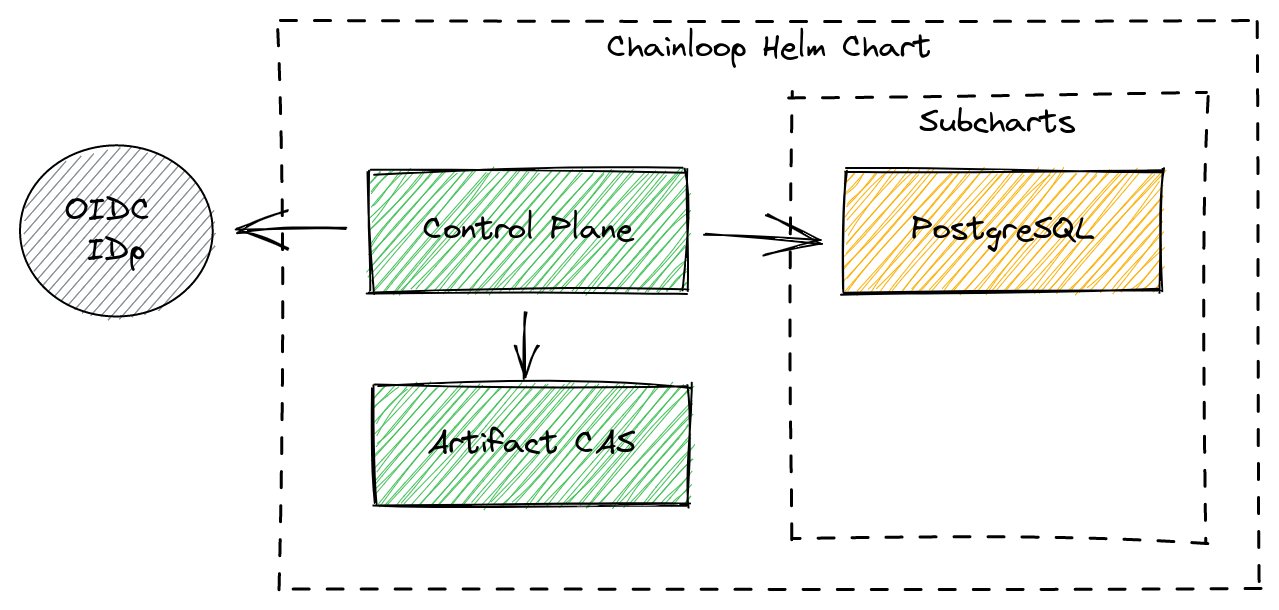
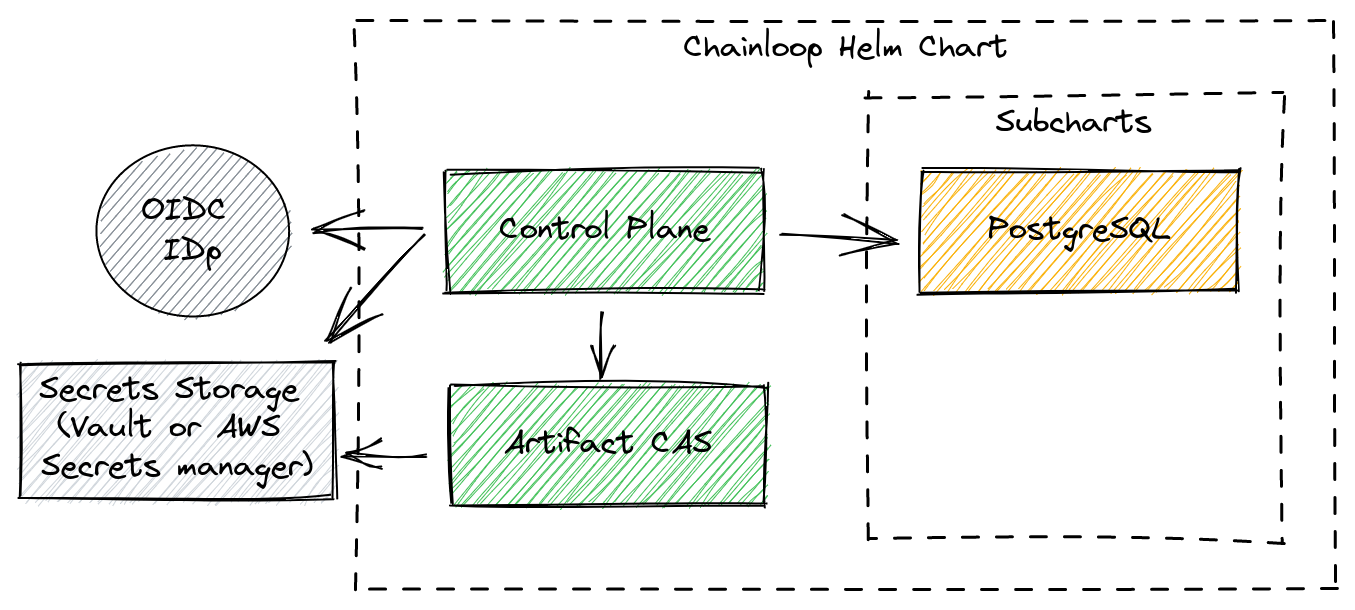
docs: update deployment image (#87)

diff --git a/deployment/chainloop/README.md b/deployment/chainloop/README.md
@@ -10,8 +10,7 @@ This chart bootstraps a [Chainloop](https://github.com/chainloop-dev/chainloop) 
 
 - Kubernetes 1.19+
 - Helm 3.2.0+
-- PV provisioner support in the underlying infrastructure
-- ReadWriteMany volumes for deployment scaling
+- PV provisioner support in the underlying infrastructure (If built-in PostgreSQL is enabled)
 
 ## TL;DR
 
@@ -24,6 +23,8 @@ helm install [RELEASE_NAME] oci://ghcr.io/chainloop-dev/charts/chainloop \
     --set controlplane.auth.oidc.clientID=[clientID] \
     --set controlplane.auth.oidc.clientSecret=[clientSecret]
 ```
+
+> **CAUTION**: Do not use this mode in production, for that, use the [standard mode](#standard-default) instead.
 
 ## Installing the Chart
 
@@ -47,16 +48,11 @@ During installation, you'll need to provide
 - Connection settings for a secrets storage backend, either [Hashicorp Vault](https://www.vaultproject.io/) or [AWS Secret Manager](https://aws.amazon.com/secrets-manager)
 - ECDSA (ES512) key-pair used for Controlplane <-> CAS Authentication
 
-You can generate the ECDSA key-pair by running
-
-```console
-# Private Key (private.ec.key)
-openssl ecparam -name secp521r1 -genkey -noout -out private.ec.key
-# Public Key (public.pem)
-openssl ec -in private.ec.key -pubout -out public.pem
-```
+Instructions on how to create the ECDSA keypair can be found [here](#generate-a-ecdsa-key-pair).
 
 #### Installation Examples
+
+> **NOTE**: **We do not recommend passing nor storing sensitive data in plain text**. For production, please consider having your overrides encrypted with tools such as [Sops](https://github.com/mozilla/sops), [Helm Secrets](https://github.com/jkroepke/helm-secrets) or [Sealed Secrets](https://github.com/bitnami-labs/sealed-secrets).
 
 Deploy Chainloop configured to talk to the bundled PostgreSQL an external OIDC IDp and a Vault instance.
 
@@ -121,6 +117,8 @@ The Helm Chart in this mode includes
 - A PostgreSQL dependency enabled by default
 - **A pre-configured Hashicorp Vault instance running in development mode (unsealed, in-memory, insecure)**
 
+> **CAUTION**: Do not use this mode in production, for that, use the [standard mode](#standard-default) instead.
+
 During installation, you'll need to provide
 
 - Open ID Connect Identity Provider (IDp) settings i.e [Auth0 settings](https://auth0.com/docs/get-started/applications/application-settings#basic-information)
@@ -138,7 +136,163 @@ helm install [RELEASE_NAME] oci://ghcr.io/chainloop-dev/charts/chainloop \
     --set controlplane.auth.oidc.clientID=[clientID] \
     --set controlplane.auth.oidc.clientSecret=[clientSecret]
 ```
+## How to guides
 
+### Generate a ECDSA key-pair
+
+An ECDSA key-pair is required to perform authentication between the control-plane and the Artifact CAS
+
+You can generate both the private and public keys by running
+
+```bash
+# Private Key (private.ec.key)
+openssl ecparam -name secp521r1 -genkey -noout -out private.ec.key
+# Public Key (public.pem)
+openssl ec -in private.ec.key -pubout -out public.pem
+```
+
+Then, you can either provide it in a custom `values.yaml` file override
+
+```yaml
+casJWTPrivateKey: |-
+    -----BEGIN EC PRIVATE KEY-----
+    REDACTED
+    -----END EC PRIVATE KEY-----
+casJWTPublicKey: |
+    -----BEGIN PUBLIC KEY-----
+    REDACTED
+    -----END PUBLIC KEY-----
+```
+
+or as shown before, provide them as imperative inputs during Helm Install/Upgrade `--set casJWTPrivateKey="$(cat private.ec.key)"--set casJWTPublicKey="$(cat public.pem)"`
+
+### Enable a custom domain with TLS
+
+Chainloop uses three endpoints so we'll need to enable the ingress resource for each one of them.
+
+See below an example of a `values.yaml` override
+
+```yaml
+controlplane:
+  ingress:
+    enabled: true
+    hostname: cp.chainloop.dev
+
+  ingressAPI:
+    enabled: true
+    hostname: api.cp.chainloop.dev
+
+cas:
+    ingressAPI:
+    enabled: true
+    hostname: api.cas.chainloop.dev
+```
+
+A complete setup that uses
+
+- NGINX as ingress Controller https://kubernetes.github.io/ingress-nginx/
+- [cert-manager](https://cert-manager.io/) as TLS provider
+
+would look like
+
+```yaml
+controlplane:
+  ingress:
+    enabled: true
+    tls: true
+    ingressClassName: nginx
+    hostname: cp.chainloop.dev
+    annotations:
+      # This depends on your configured issuer 
+      cert-manager.io/cluster-issuer: "letsencrypt-prod"
+
+  ingressAPI:
+    enabled: true
+    tls: true
+    ingressClassName: nginx
+    hostname: api.cp.chainloop.dev
+    annotations:
+      nginx.ingress.kubernetes.io/backend-protocol: "GRPC"
+      cert-manager.io/cluster-issuer: "letsencrypt-prod"
+          
+cas:
+  ingressAPI:
+    enabled: true
+    tls: true
+    ingressClassName: nginx
+    hostname: api.cas.chainloop.dev
+    annotations:
+      nginx.ingress.kubernetes.io/backend-protocol: "GRPC"
+      cert-manager.io/cluster-issuer: "letsencrypt-prod"
+      # limit the size of the files that go through the proxy
+      # 0 means to not check the size of the request so we do not get 413 error.
+      # For now we are going to set a limit on 100MB files
+      # Even though we send data in chunks of 1MB, this size refers to all the data sent in the streaming connection
+      nginx.ingress.kubernetes.io/proxy-body-size: "100m"
+```
+
+### Connect to an external PostgreSQL database
+
+```yaml
+# Disable built-in DB
+postgresql:
+  enabled: false
+
+# Provide with external connection
+controlplane:
+    externalDatabase:
+        host: 1.2.3.4
+        port: 5432
+        user: chainloop
+        password: [REDACTED]
+        database: chainloop-controlplane-prod
+```
+
+Alternatively, if you are using [Google Cloud SQL](https://cloud.google.com/sql) and you are running Chainloop in Google Kubernetes Engine. You can connect instead via [a proxy](https://cloud.google.com/sql/docs/mysql/connect-kubernetes-engine#proxy)
+
+This method can also be easily enabled in this chart by doing
+
+```yaml
+# Disable built-in DB
+postgresql:
+  enabled: false
+
+# Provide with external connection
+controlplane:
+    sqlProxy:
+        # Inject the proxy sidecar
+        enabled: true
+        ## @param controlplane.sqlProxy.connectionName Google Cloud SQL connection name
+        connectionName: "my-sql-instance"
+    # Then you'll need to configure your DB settings to use the proxy IP address
+    externalDatabase:
+        host: [proxy-sidecar-ip-address]
+        port: 5432
+        user: chainloop
+        password: [REDACTED]
+        database: chainloop-controlplane-prod
+```
+
+### Use AWS secret manager
+
+You can swap the secret manager backend with the following settings
+
+```yaml
+secretsBackend:
+    backend: awsSecretManager
+    awsSecretManager:
+        accessKey: [KEY]
+        secretKey: [SECRET]
+        region: [REGION]
+```
+### Send exceptions to Sentry
+
+```yaml
+sentry:
+    enabled: true
+    dsn: [your secret sentry project DSN URL]
+    environment: production
+```
 ## Parameters
 
 ### Common parameters
@@ -204,43 +358,44 @@ helm install [RELEASE_NAME] oci://ghcr.io/chainloop-dev/charts/chainloop \
 
 ### Control Plane Networking
 
-| Name                                       | Description                                                                                                                      | Value                    |
-| ------------------------------------------ | -------------------------------------------------------------------------------------------------------------------------------- | ------------------------ |
-| `controlplane.service.type`                | Service type                                                                                                                     | `ClusterIP`              |
-| `controlplane.service.port`                | Service port                                                                                                                     | `80`                     |
-| `controlplane.service.targetPort`          | Service target Port                                                                                                              | `http`                   |
-| `controlplane.service.nodePorts.http`      | Node port for HTTP. NOTE: choose port between <30000-32767>                                                                      |                          |
-| `controlplane.serviceAPI.type`             | Service type                                                                                                                     | `ClusterIP`              |
-| `controlplane.serviceAPI.port`             | Service port                                                                                                                     | `80`                     |
-| `controlplane.serviceAPI.targetPort`       | Service target Port                                                                                                              | `grpc`                   |
-| `controlplane.serviceAPI.annotations`      | Service annotations                                                                                                              |                          |
-| `controlplane.serviceAPI.nodePorts.http`   | Node port for HTTP. NOTE: choose port between <30000-32767>                                                                      |                          |
-| `controlplane.ingress.enabled`             | Enable ingress record generation for %%MAIN_CONTAINER_NAME%%                                                                     | `false`                  |
-| `controlplane.ingress.pathType`            | Ingress path type                                                                                                                | `ImplementationSpecific` |
-| `controlplane.ingress.hostname`            | Default host for the ingress record                                                                                              | `cp.dev.local`           |
-| `controlplane.ingress.ingressClassName`    | IngressClass that will be be used to implement the Ingress (Kubernetes 1.18+)                                                    | `""`                     |
-| `controlplane.ingress.path`                | Default path for the ingress record                                                                                              | `/`                      |
-| `controlplane.ingress.annotations`         | Additional annotations for the Ingress resource. To enable certificate autogeneration, place here your cert-manager annotations. | `{}`                     |
-| `controlplane.ingress.tls`                 | Enable TLS configuration for the host defined at `controlplane.ingress.hostname` parameter                                       | `false`                  |
-| `controlplane.ingress.selfSigned`          | Create a TLS secret for this ingress record using self-signed certificates generated by Helm                                     | `false`                  |
-| `controlplane.ingress.extraHosts`          | An array with additional hostname(s) to be covered with the ingress record                                                       | `[]`                     |
-| `controlplane.ingress.extraPaths`          | An array with additional arbitrary paths that may need to be added to the ingress under the main host                            | `[]`                     |
-| `controlplane.ingress.extraTls`            | TLS configuration for additional hostname(s) to be covered with this ingress record                                              | `[]`                     |
-| `controlplane.ingress.secrets`             | Custom TLS certificates as secrets                                                                                               | `[]`                     |
-| `controlplane.ingress.extraRules`          | Additional rules to be covered with this ingress record                                                                          | `[]`                     |
-| `controlplane.ingressAPI.enabled`          | Enable ingress record generation for %%MAIN_CONTAINER_NAME%%                                                                     | `false`                  |
-| `controlplane.ingressAPI.pathType`         | Ingress path type                                                                                                                | `ImplementationSpecific` |
-| `controlplane.ingressAPI.hostname`         | Default host for the ingress record                                                                                              | `api.cp.dev.local`       |
-| `controlplane.ingressAPI.ingressClassName` | IngressClass that will be be used to implement the Ingress (Kubernetes 1.18+)                                                    | `""`                     |
-| `controlplane.ingressAPI.path`             | Default path for the ingress record                                                                                              | `/`                      |
-| `controlplane.ingressAPI.annotations`      | Additional annotations for the Ingress resource. To enable certificate autogeneration, place here your cert-manager annotations. | `{}`                     |
-| `controlplane.ingressAPI.tls`              | Enable TLS configuration for the host defined at `controlplane.ingress.hostname` parameter                                       | `false`                  |
-| `controlplane.ingressAPI.selfSigned`       | Create a TLS secret for this ingress record using self-signed certificates generated by Helm                                     | `false`                  |
-| `controlplane.ingressAPI.extraHosts`       | An array with additional hostname(s) to be covered with the ingress record                                                       | `[]`                     |
-| `controlplane.ingressAPI.extraPaths`       | An array with additional arbitrary paths that may need to be added to the ingress under the main host                            | `[]`                     |
-| `controlplane.ingressAPI.extraTls`         | TLS configuration for additional hostname(s) to be covered with this ingress record                                              | `[]`                     |
-| `controlplane.ingressAPI.secrets`          | Custom TLS certificates as secrets                                                                                               | `[]`                     |
-| `controlplane.ingressAPI.extraRules`       | Additional rules to be covered with this ingress record                                                                          | `[]`                     |
+| Name                                                                               | Description                                                                                                                      | Value                    |
+| ---------------------------------------------------------------------------------- | -------------------------------------------------------------------------------------------------------------------------------- | ------------------------ |
+| `controlplane.service.type`                                                        | Service type                                                                                                                     | `ClusterIP`              |
+| `controlplane.service.port`                                                        | Service port                                                                                                                     | `80`                     |
+| `controlplane.service.targetPort`                                                  | Service target Port                                                                                                              | `http`                   |
+| `controlplane.service.nodePorts.http`                                              | Node port for HTTP. NOTE: choose port between <30000-32767>                                                                      |                          |
+| `controlplane.serviceAPI.type`                                                     | Service type                                                                                                                     | `ClusterIP`              |
+| `controlplane.serviceAPI.port`                                                     | Service port                                                                                                                     | `80`                     |
+| `controlplane.serviceAPI.targetPort`                                               | Service target Port                                                                                                              | `grpc`                   |
+| `controlplane.serviceAPI.annotations`                                              | Service annotations                                                                                                              |                          |
+| `controlplane.serviceAPI.nodePorts.http`                                           | Node port for HTTP. NOTE: choose port between <30000-32767>                                                                      |                          |
+| `controlplane.ingress.enabled`                                                     | Enable ingress record generation for %%MAIN_CONTAINER_NAME%%                                                                     | `false`                  |
+| `controlplane.ingress.pathType`                                                    | Ingress path type                                                                                                                | `ImplementationSpecific` |
+| `controlplane.ingress.hostname`                                                    | Default host for the ingress record                                                                                              | `cp.dev.local`           |
+| `controlplane.ingress.ingressClassName`                                            | IngressClass that will be be used to implement the Ingress (Kubernetes 1.18+)                                                    | `""`                     |
+| `controlplane.ingress.path`                                                        | Default path for the ingress record                                                                                              | `/`                      |
+| `controlplane.ingress.annotations`                                                 | Additional annotations for the Ingress resource. To enable certificate autogeneration, place here your cert-manager annotations. | `{}`                     |
+| `controlplane.ingress.tls`                                                         | Enable TLS configuration for the host defined at `controlplane.ingress.hostname` parameter                                       | `false`                  |
+| `controlplane.ingress.selfSigned`                                                  | Create a TLS secret for this ingress record using self-signed certificates generated by Helm                                     | `false`                  |
+| `controlplane.ingress.extraHosts`                                                  | An array with additional hostname(s) to be covered with the ingress record                                                       | `[]`                     |
+| `controlplane.ingress.extraPaths`                                                  | An array with additional arbitrary paths that may need to be added to the ingress under the main host                            | `[]`                     |
+| `controlplane.ingress.extraTls`                                                    | TLS configuration for additional hostname(s) to be covered with this ingress record                                              | `[]`                     |
+| `controlplane.ingress.secrets`                                                     | Custom TLS certificates as secrets                                                                                               | `[]`                     |
+| `controlplane.ingress.extraRules`                                                  | Additional rules to be covered with this ingress record                                                                          | `[]`                     |
+| `controlplane.ingressAPI.enabled`                                                  | Enable ingress record generation for %%MAIN_CONTAINER_NAME%%                                                                     | `false`                  |
+| `controlplane.ingressAPI.pathType`                                                 | Ingress path type                                                                                                                | `ImplementationSpecific` |
+| `controlplane.ingressAPI.hostname`                                                 | Default host for the ingress record                                                                                              | `api.cp.dev.local`       |
+| `controlplane.ingressAPI.ingressClassName`                                         | IngressClass that will be be used to implement the Ingress (Kubernetes 1.18+)                                                    | `""`                     |
+| `controlplane.ingressAPI.path`                                                     | Default path for the ingress record                                                                                              | `/`                      |
+| `controlplane.ingressAPI.annotations`                                              | Additional annotations for the Ingress resource. To enable certificate autogeneration, place here your cert-manager annotations. |                          |
+| `controlplane.ingressAPI.annotations.nginx.ingress.kubernetes.io/backend-protocol` | Tell Nginx Ingress Controller to expect gRPC traffic                                                                             | `GRPC`                   |
+| `controlplane.ingressAPI.tls`                                                      | Enable TLS configuration for the host defined at `controlplane.ingress.hostname` parameter                                       | `false`                  |
+| `controlplane.ingressAPI.selfSigned`                                               | Create a TLS secret for this ingress record using self-signed certificates generated by Helm                                     | `false`                  |
+| `controlplane.ingressAPI.extraHosts`                                               | An array with additional hostname(s) to be covered with the ingress record                                                       | `[]`                     |
+| `controlplane.ingressAPI.extraPaths`                                               | An array with additional arbitrary paths that may need to be added to the ingress under the main host                            | `[]`                     |
+| `controlplane.ingressAPI.extraTls`                                                 | TLS configuration for additional hostname(s) to be covered with this ingress record                                              | `[]`                     |
+| `controlplane.ingressAPI.secrets`                                                  | Custom TLS certificates as secrets                                                                                               | `[]`                     |
+| `controlplane.ingressAPI.extraRules`                                               | Additional rules to be covered with this ingress record                                                                          | `[]`                     |
 
 ### Controlplane Misc
 
@@ -266,26 +421,28 @@ helm install [RELEASE_NAME] oci://ghcr.io/chainloop-dev/charts/chainloop \
 
 ### CAS Networking
 
-| Name                              | Description                                                                                                                      | Value                    |
-| --------------------------------- | -------------------------------------------------------------------------------------------------------------------------------- | ------------------------ |
-| `cas.serviceAPI.type`             | Service type                                                                                                                     | `ClusterIP`              |
-| `cas.serviceAPI.port`             | Service port                                                                                                                     | `80`                     |
-| `cas.serviceAPI.targetPort`       | Service target Port                                                                                                              | `grpc`                   |
-| `cas.serviceAPI.annotations`      | Service annotations                                                                                                              |                          |
-| `cas.serviceAPI.nodePorts.http`   | Node port for HTTP. NOTE: choose port between <30000-32767>                                                                      |                          |
-| `cas.ingressAPI.enabled`          | Enable ingress record generation for %%MAIN_CONTAINER_NAME%%                                                                     | `false`                  |
-| `cas.ingressAPI.pathType`         | Ingress path type                                                                                                                | `ImplementationSpecific` |
-| `cas.ingressAPI.hostname`         | Default host for the ingress record                                                                                              | `api.cp.dev.local`       |
-| `cas.ingressAPI.ingressClassName` | IngressClass that will be be used to implement the Ingress (Kubernetes 1.18+)                                                    | `""`                     |
-| `cas.ingressAPI.path`             | Default path for the ingress record                                                                                              | `/`                      |
-| `cas.ingressAPI.annotations`      | Additional annotations for the Ingress resource. To enable certificate autogeneration, place here your cert-manager annotations. | `{}`                     |
-| `cas.ingressAPI.tls`              | Enable TLS configuration for the host defined at `controlplane.ingress.hostname` parameter                                       | `false`                  |
-| `cas.ingressAPI.selfSigned`       | Create a TLS secret for this ingress record using self-signed certificates generated by Helm                                     | `false`                  |
-| `cas.ingressAPI.extraHosts`       | An array with additional hostname(s) to be covered with the ingress record                                                       | `[]`                     |
-| `cas.ingressAPI.extraPaths`       | An array with additional arbitrary paths that may need to be added to the ingress under the main host                            | `[]`                     |
-| `cas.ingressAPI.extraTls`         | TLS configuration for additional hostname(s) to be covered with this ingress record                                              | `[]`                     |
-| `cas.ingressAPI.secrets`          | Custom TLS certificates as secrets                                                                                               | `[]`                     |
-| `cas.ingressAPI.extraRules`       | Additional rules to be covered with this ingress record                                                                          | `[]`                     |
+| Name                                                                      | Description                                                                                                                      | Value                    |
+| ------------------------------------------------------------------------- | -------------------------------------------------------------------------------------------------------------------------------- | ------------------------ |
+| `cas.serviceAPI.type`                                                     | Service type                                                                                                                     | `ClusterIP`              |
+| `cas.serviceAPI.port`                                                     | Service port                                                                                                                     | `80`                     |
+| `cas.serviceAPI.targetPort`                                               | Service target Port                                                                                                              | `grpc`                   |
+| `cas.serviceAPI.annotations`                                              | Service annotations                                                                                                              |                          |
+| `cas.serviceAPI.nodePorts.http`                                           | Node port for HTTP. NOTE: choose port between <30000-32767>                                                                      |                          |
+| `cas.ingressAPI.enabled`                                                  | Enable ingress record generation for %%MAIN_CONTAINER_NAME%%                                                                     | `false`                  |
+| `cas.ingressAPI.pathType`                                                 | Ingress path type                                                                                                                | `ImplementationSpecific` |
+| `cas.ingressAPI.hostname`                                                 | Default host for the ingress record                                                                                              | `api.cp.dev.local`       |
+| `cas.ingressAPI.ingressClassName`                                         | IngressClass that will be be used to implement the Ingress (Kubernetes 1.18+)                                                    | `""`                     |
+| `cas.ingressAPI.path`                                                     | Default path for the ingress record                                                                                              | `/`                      |
+| `cas.ingressAPI.annotations`                                              | Additional annotations for the Ingress resource. To enable certificate autogeneration, place here your cert-manager annotations. |                          |
+| `cas.ingressAPI.annotations.nginx.ingress.kubernetes.io/proxy-body-size`  | Limit the size of uploads/downloads (0 means unlimited)                                                                          | `100m`                   |
+| `cas.ingressAPI.annotations.nginx.ingress.kubernetes.io/backend-protocol` | Tell Nginx Ingress Controller to expect gRPC traffic                                                                             | `GRPC`                   |
+| `cas.ingressAPI.tls`                                                      | Enable TLS configuration for the host defined at `controlplane.ingress.hostname` parameter                                       | `false`                  |
+| `cas.ingressAPI.selfSigned`                                               | Create a TLS secret for this ingress record using self-signed certificates generated by Helm                                     | `false`                  |
+| `cas.ingressAPI.extraHosts`                                               | An array with additional hostname(s) to be covered with the ingress record                                                       | `[]`                     |
+| `cas.ingressAPI.extraPaths`                                               | An array with additional arbitrary paths that may need to be added to the ingress under the main host                            | `[]`                     |
+| `cas.ingressAPI.extraTls`                                                 | TLS configuration for additional hostname(s) to be covered with this ingress record                                              | `[]`                     |
+| `cas.ingressAPI.secrets`                                                  | Custom TLS certificates as secrets                                                                                               | `[]`                     |
+| `cas.ingressAPI.extraRules`                                               | Additional rules to be covered with this ingress record                                                                          | `[]`                     |
 
 ### CAS Misc
 
